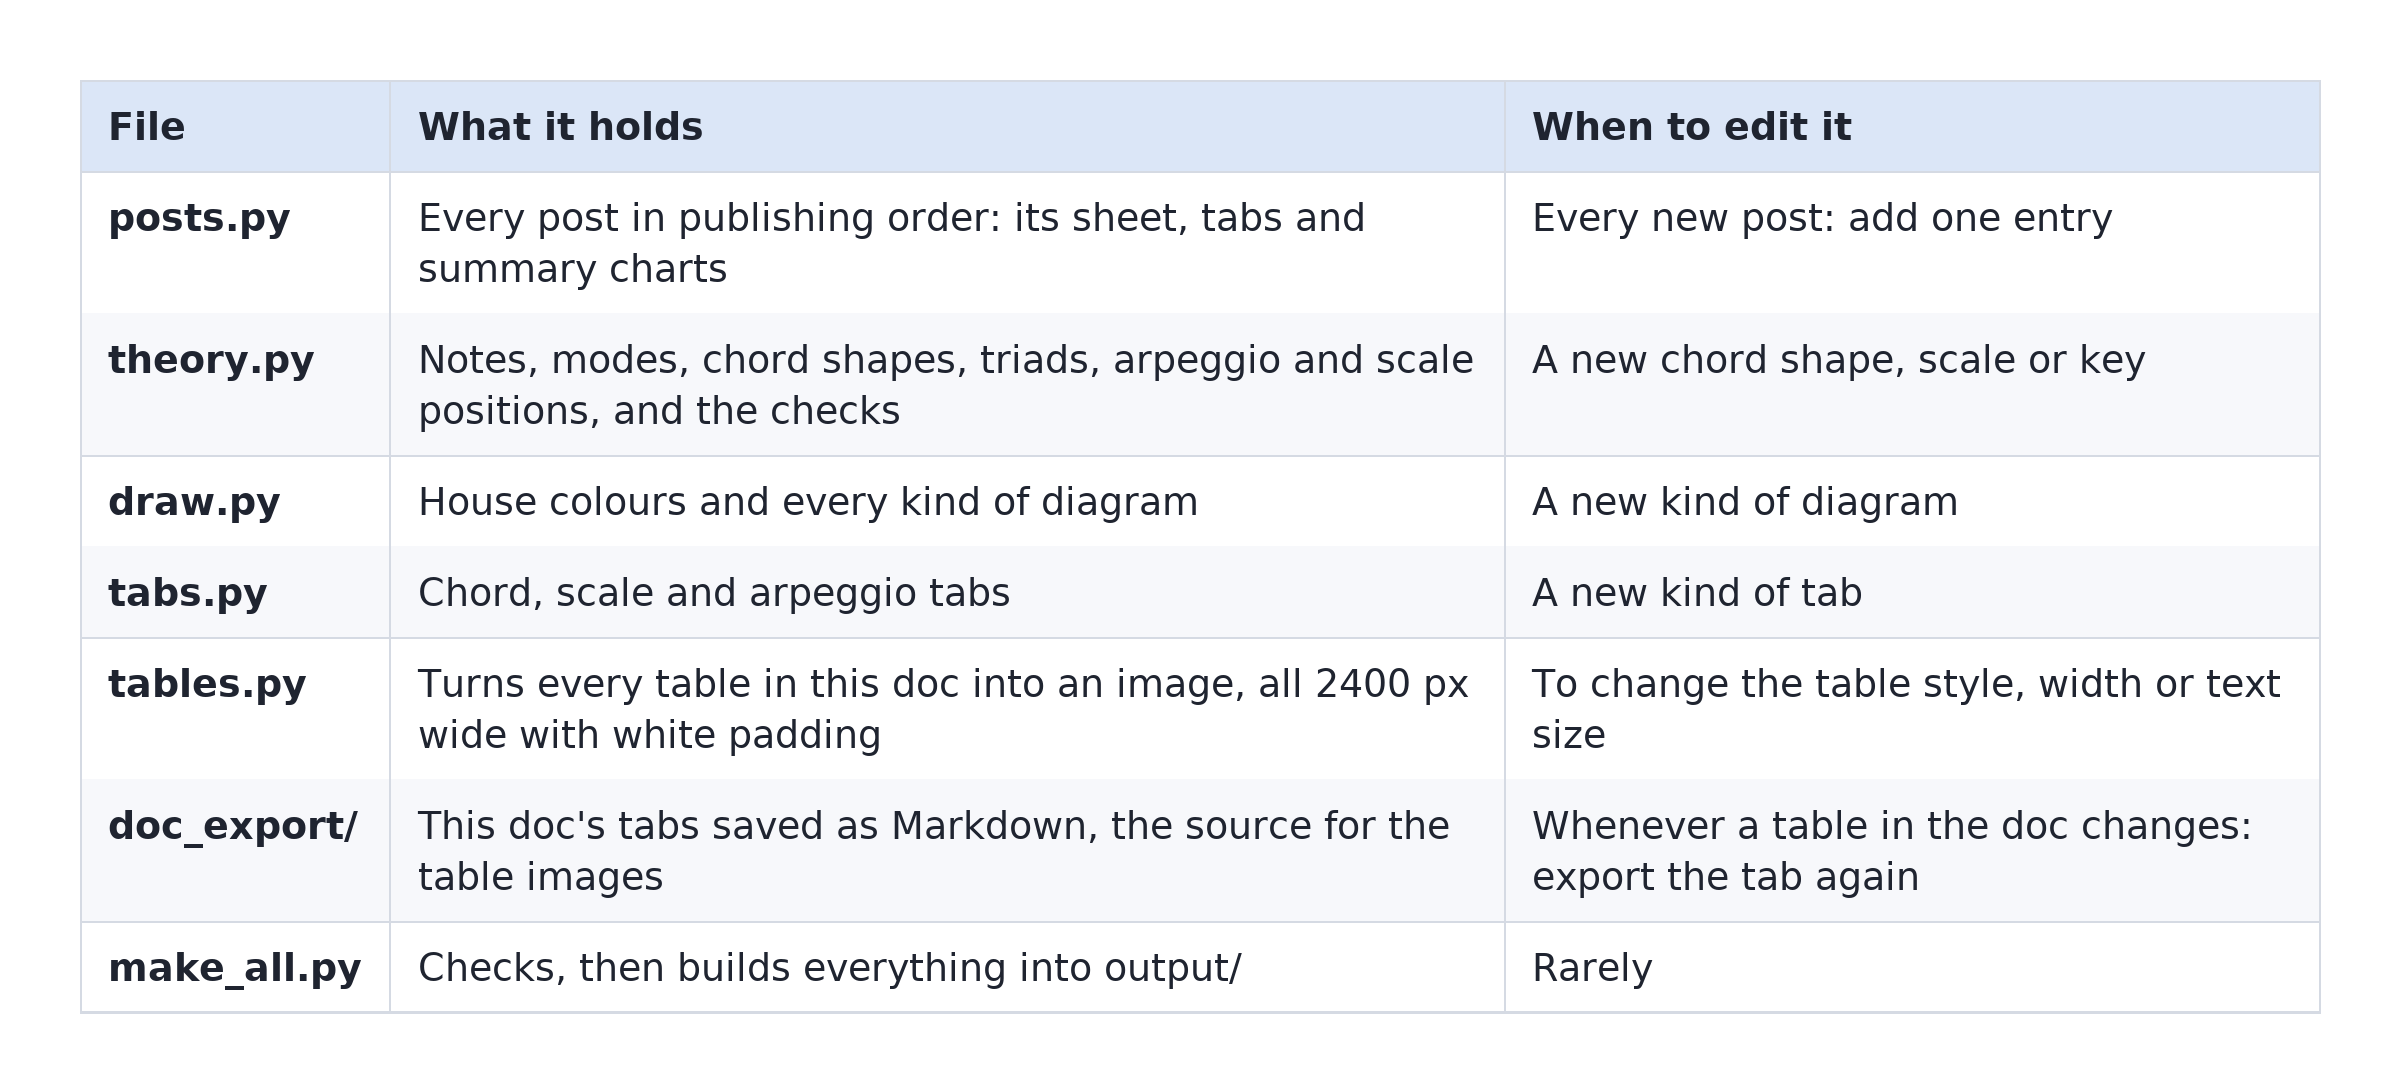
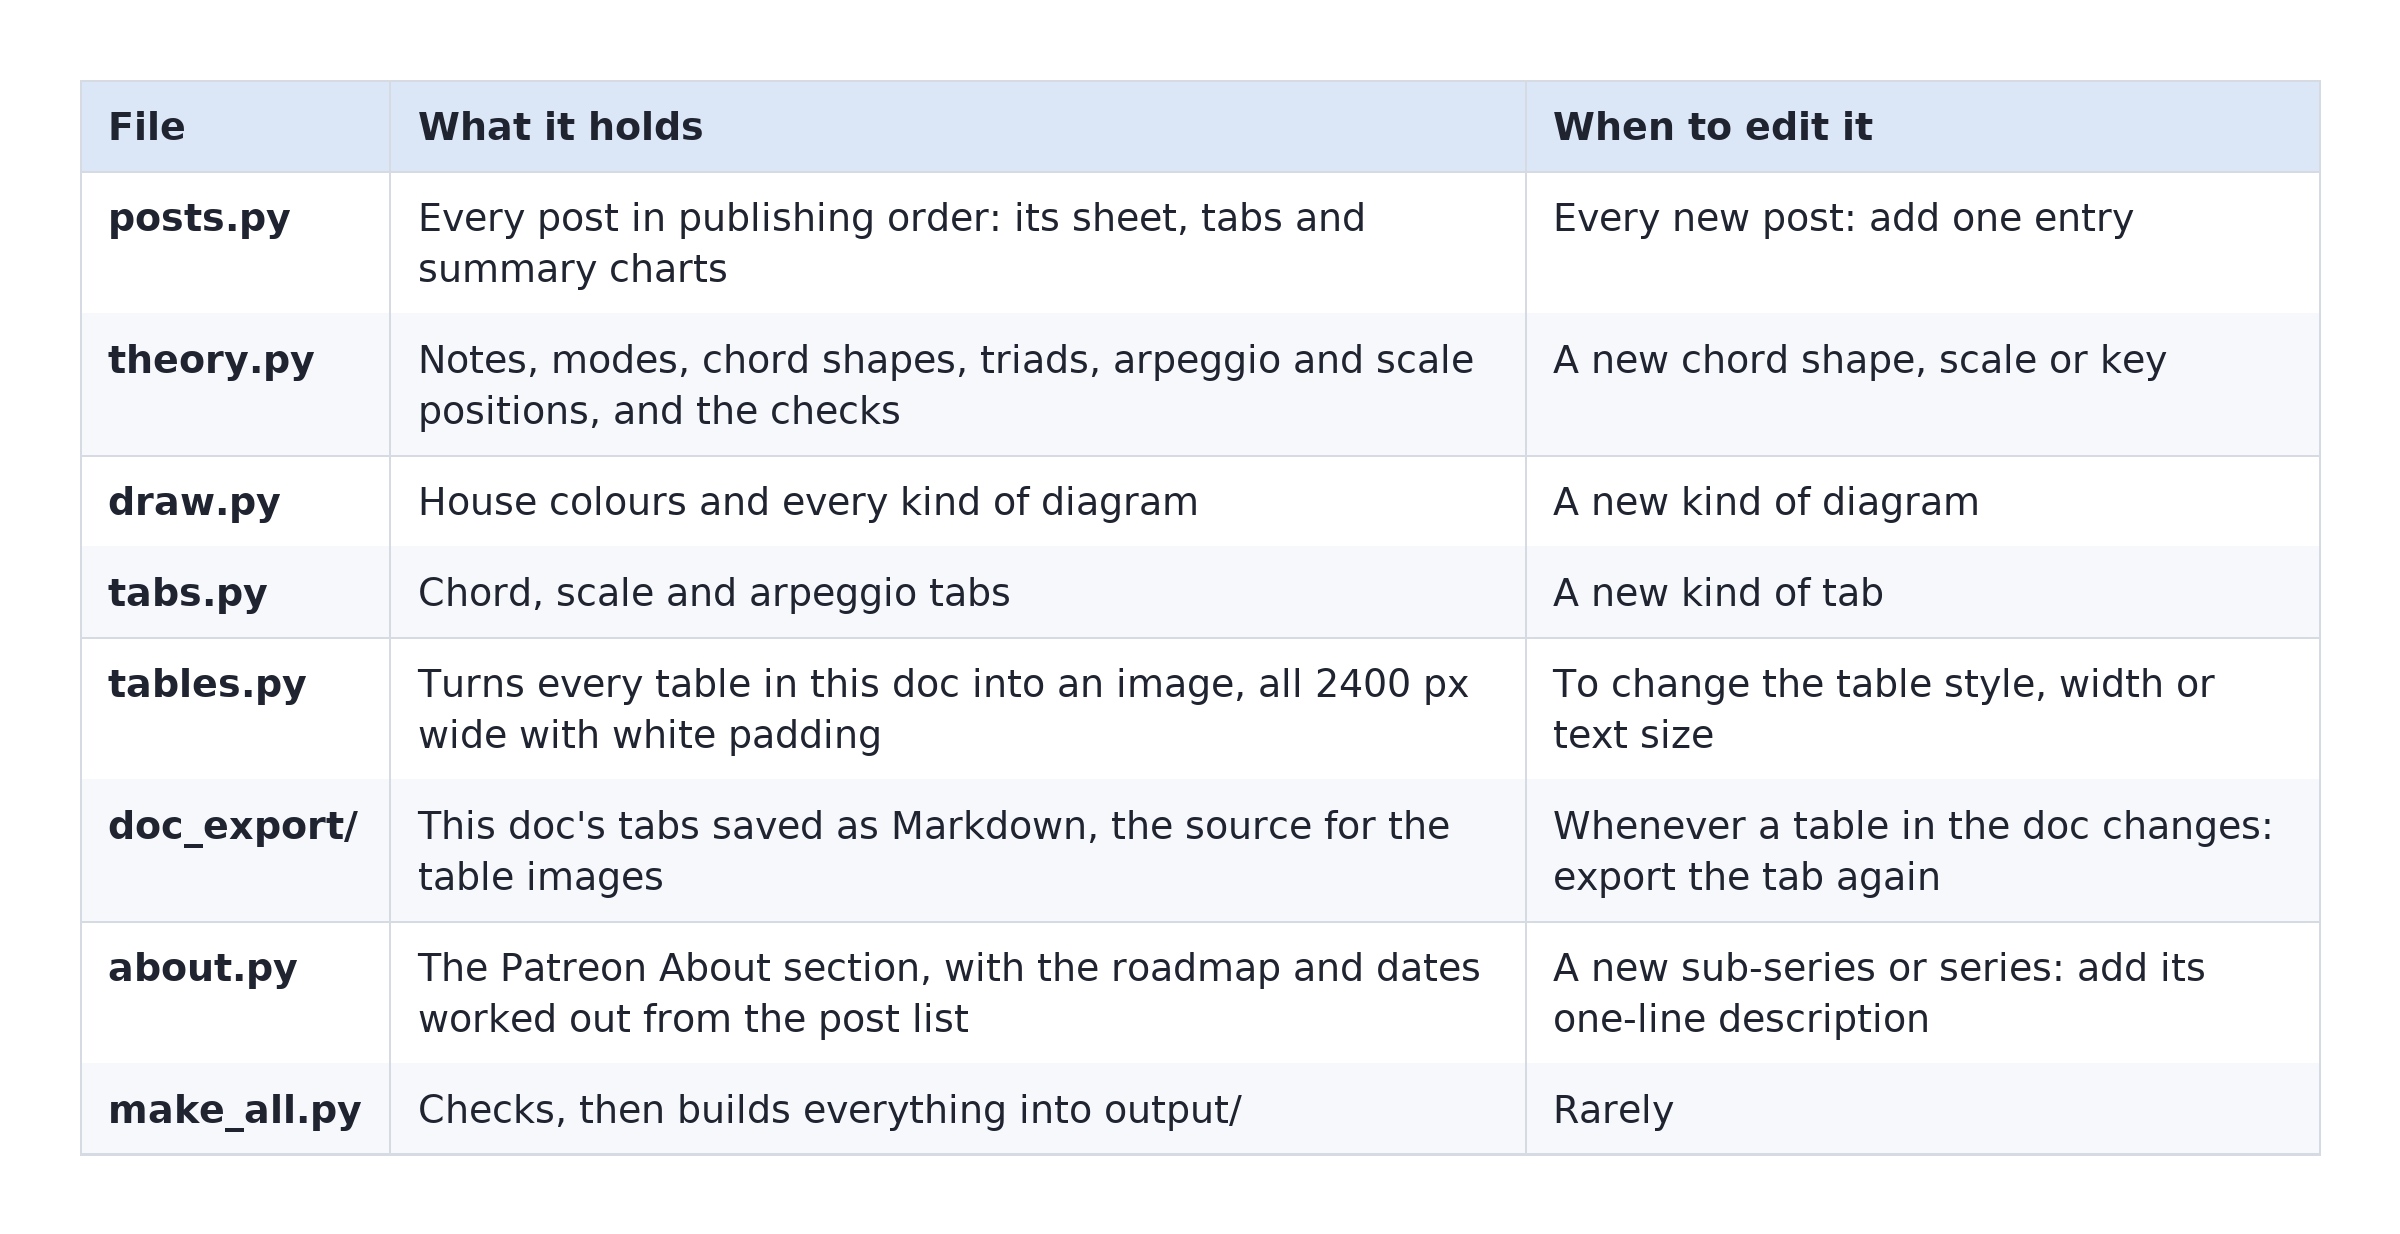
Auto-sync 13/11/2026 22:25:02.48

diff --git a/about.py b/about.py
@@ -1,0 +1,106 @@
+"""The Patreon About section, written from the post list so it always matches what exists.
+
+make_all.py writes it to output/about.txt, plain text that pastes cleanly into Patreon's About
+editor. Adding a post to posts.py updates the parts, start dates and recap line by itself.
+A new sub-series needs one line in PARTS below; a new series needs one entry in SERIES.
+make_all.py stops and says so if either is missing.
+"""
+import datetime as dt
+
+# One entry per series. Its posts are the ones whose 'series' value is one of its parts (or Recap).
+SERIES = [
+    dict(name='Theory in E', start=dt.date(2026, 11, 16),
+         parts=['Foundations', 'Modes', 'Eras', 'Exercises']),
+]
+
+# One line per part (sub-series), finishing the sentence "Part 1, Foundations, from 16 November: ..."
+PARTS = {
+    'Foundations': 'the E major scale, chords in E, Nashville numbers, why a fifth higher, and the chords in each mode.',
+    'Modes': 'all seven modes, from bright Lydian to unstable Locrian, every one starting on E.',
+    'Eras': "a hundred years of music, from 1920s country blues to today's pop and country.",
+    'Exercises': 'arpeggios for every chord in E, then runs that go up each chord and come back down its mode.',
+}
+
+RECAP = 'Recap'           # a recap post closes the part just before it
+
+INTRO = [
+    '{name} is a weekly music theory series for beginners on guitar and keys.',
+    'Every Monday you get one idea, small enough to learn in a sitting: the idea in plain words, the notes, '
+    'a chord sequence and one thing to try. Every post is in the key of E and ends with the same idea a fifth '
+    'higher, in B, so you learn to move it anywhere. No reading music needed.',
+]
+
+IN_EACH_POST = [
+    'About 300 words of notes (free)',
+    'A diagram sheet: fretboard, keyboard and chord boxes in E and B (free)',
+    'Two minutes of audio, music only (members)',
+    'Guitar tab (members)',
+]
+
+START_HERE = '{first} Welcome, the Glossary and the Practice routines all go up on {date}, free for everyone.'
+
+
+def problems(posts):
+    out = []
+    known = {p for ser in SERIES for p in ser['parts']} | {RECAP}
+    for p in posts:
+        if p.get('series') not in known:
+            out.append((p['code'], f"sub-series '{p.get('series')}' is not in about.py: add it to SERIES and PARTS"))
+    for ser in SERIES:
+        for part in ser['parts']:
+            if part not in PARTS:
+                out.append(('about.py', f"no roadmap line for part '{part}' in PARTS"))
+    return out
+
+
+def _day(d):
+    return f'{d.day} {d:%B}'
+
+
+def _parts(posts, ser):
+    """Parts in publishing order: name, first post's date, and whether a recap closes it."""
+    parts = []; week = 0; current = None
+    for p in posts:
+        s = p['series']
+        if s != RECAP and s not in ser['parts']:
+            continue
+        if s == RECAP:
+            if current: current['recap'] = True
+        elif not current or current['name'] != s:
+            current = dict(name=s, start=ser['start'] + dt.timedelta(weeks=week), recap=False)
+            parts.append(current)
+        week += 1
+    return parts
+
+
+def _recap_line(parts):
+    with_recap = [i + 1 for i, p in enumerate(parts) if p['recap']]
+    if not with_recap:
+        return None
+    if len(with_recap) == len(parts):
+        who = 'Each part ends'
+    elif len(with_recap) == 1:
+        who = f'Part {with_recap[0]} ends'
+    elif with_recap == list(range(with_recap[0], with_recap[-1] + 1)):
+        who = f'Parts {with_recap[0]} to {with_recap[-1]} end'
+    else:
+        who = 'Parts ' + ', '.join(map(str, with_recap[:-1])) + f' and {with_recap[-1]} end'
+    return f'{who} with a recap and a five-question quiz.'
+
+
+def about_text(posts):
+    blocks = []
+    for ser in SERIES:
+        mine = [p for p in posts if p['series'] in ser['parts'] or p['series'] == RECAP]
+        parts = _parts(mine, ser)
+        lines = [INTRO[0].format(name=ser['name']), '', INTRO[1], '', "What's in each post", '']
+        lines += [f'* {x}' for x in IN_EACH_POST]
+        lines += ['', '', 'The roadmap:']
+        for i, part in enumerate(parts, 1):
+            lines.append(f'Part {i}, {part["name"]}, from {_day(part["start"])}: {PARTS[part["name"]]}')
+        recap = _recap_line(parts)
+        if recap:
+            lines.append(recap)
+        lines += ['', 'Start here', START_HERE.format(first=mine[0]['code'], date=_day(ser['start']))]
+        blocks.append('\n'.join(lines))
+    return '\n\n\n'.join(blocks) + '\n'

diff --git a/make_all.py b/make_all.py
@@ -5,6 +5,7 @@
     python3 make_all.py --check         run the music checks and stop
     python3 make_all.py --out mydir     use another output folder
     python3 make_all.py --tables        just the table images
+    python3 make_all.py --about         just the Patreon About text (output/about.txt)
 
 Table images come from the doc's tabs exported as Markdown into doc_export/ (see tables.py).
 
@@ -44,11 +45,13 @@ def main():
     ap.add_argument('--only', nargs='*', help='post codes to build, e.g. F6 E1')
     ap.add_argument('--check', action='store_true', help='run the checks only')
     ap.add_argument('--tables', action='store_true', help='build only the table images')
+    ap.add_argument('--about', action='store_true', help='write only the Patreon About text')
     ap.add_argument('--doc', default=os.path.join(os.path.dirname(os.path.abspath(__file__)), 'doc_export'),
                     help='folder of the doc tabs exported as Markdown (default: doc_export)')
     a = ap.parse_args()
 
-    problems = theory.check_all() + check_catalogue()
+    import about
+    problems = theory.check_all() + check_catalogue() + about.problems(POSTS)
     if problems:
         print('Stopped: these need fixing before anything is drawn:')
         for p in problems:
@@ -58,6 +61,8 @@ def main():
     if a.check:
         return
 
+    if a.about:
+        build_about(a); return
     if a.tables:
         build_tables(a); return
 
@@ -96,6 +101,16 @@ def main():
     print(f'Made {len(made)} images in {diagrams} and the tabs in {tabs_file} ({time.time() - t0:.0f} s).')
     if not a.only:
         build_tables(a)
+        build_about(a)
+
+
+def build_about(a):
+    import about
+    os.makedirs(a.out, exist_ok=True)
+    path = os.path.join(a.out, 'about.txt')
+    with open(path, 'w', encoding='utf-8') as f:
+        f.write(about.about_text(POSTS))
+    print(f'Wrote the Patreon About text to {path}.')
 
 
 def build_tables(a):

diff --git a/README.md b/README.md
@@ -22,6 +22,7 @@ That checks all the music, then writes:
 - `output/diagrams/`: every post's diagram sheet, the E1 arpeggio sheets and the summary charts (51 images)
 - `output/tabs.md`: every tab for every post, in publishing order
 - `output/tables/`: every table in the series doc as an image (55 so far), all 2400 px wide
+- `output/about.txt`: the Patreon About section, ready to paste
 
 Other options:
 
@@ -31,6 +32,7 @@ Other options:
 | `python3 make_all.py --check` | Runs the checks and draws nothing |
 | `python3 make_all.py --out somewhere` | Writes to another folder |
 | `python3 make_all.py --tables` | Builds just the table images |
+| `python3 make_all.py --about` | Writes just the Patreon About text |
 
 On Windows, type `python` instead of `python3`.
 
@@ -42,6 +44,7 @@ On Windows, type `python` instead of `python3`.
 | `theory.py` | The music: note spellings, the seven modes in E and B, chord shapes, triads, arpeggio and scale positions, and the checks |
 | `draw.py` | How everything is drawn: house colours, post sheets, the F6 grid, E1 arpeggio sheets, summary charts |
 | `tabs.py` | How tabs are written: chord, scale and arpeggio tabs |
+| `about.py` | The Patreon About section: fixed wording, plus one roadmap line per part |
 | `tables.py` | Turns every table in the doc into an image of the same width |
 | `doc_export/` | The doc's tabs saved as Markdown: the source for the table images |
 | `make_all.py` | The one command that checks and builds everything |
@@ -72,6 +75,10 @@ Each table is drawn at its natural size in the house colours: a light blue heade
 A post's table is named like its diagram sheet, with `-table` on the end, for example `F3-chords-in-e-table.png` beside `F3-chords-in-e.png`. A post with two tables gets `-table-1` and `-table-2`. Tables that belong to no single post are named by their tab and heading, for example `calendar-exercises-table.png`, `roadmap-modes-table.png` or `glossary-table.png`.
 
 To change the width, text size or margins, edit `WIDTH`, `SIZE` and `MARGIN` at the top of `tables.py`.
+
+## The Patreon About text
+
+`about.py` writes `output/about.txt` from the post list, so the roadmap parts, their start dates and the recap line always match the posts. A new post needs nothing extra. A new sub-series needs one line in `PARTS`, and a new series one entry in `SERIES`; the checks stop and say so if either is missing. The fixed wording (intro, what's in each post, start here) sits at the top of `about.py` and can be edited there.
 
 ## Fonts
 

diff --git a/doc_export/Series reference.md b/doc_export/Series reference.md
@@ -52,6 +52,7 @@ One folder, theory\_in\_e, rebuilds every diagram and tab with a single command:
 | tabs.py | Chord, scale and arpeggio tabs | A new kind of tab |
 | tables.py | Turns every table in this doc into an image, all 2400 px wide with white padding | To change the table style, width or text size |
 | doc\_export/ | This doc's tabs saved as Markdown, the source for the table images | Whenever a table in the doc changes: export the tab again |
+| about.py | The Patreon About section, with the roadmap and dates worked out from the post list | A new sub-series or series: add its one-line description |
 | make\_all.py | Checks, then builds everything into output/ | Rarely |
 
 ## Ideas for future series
